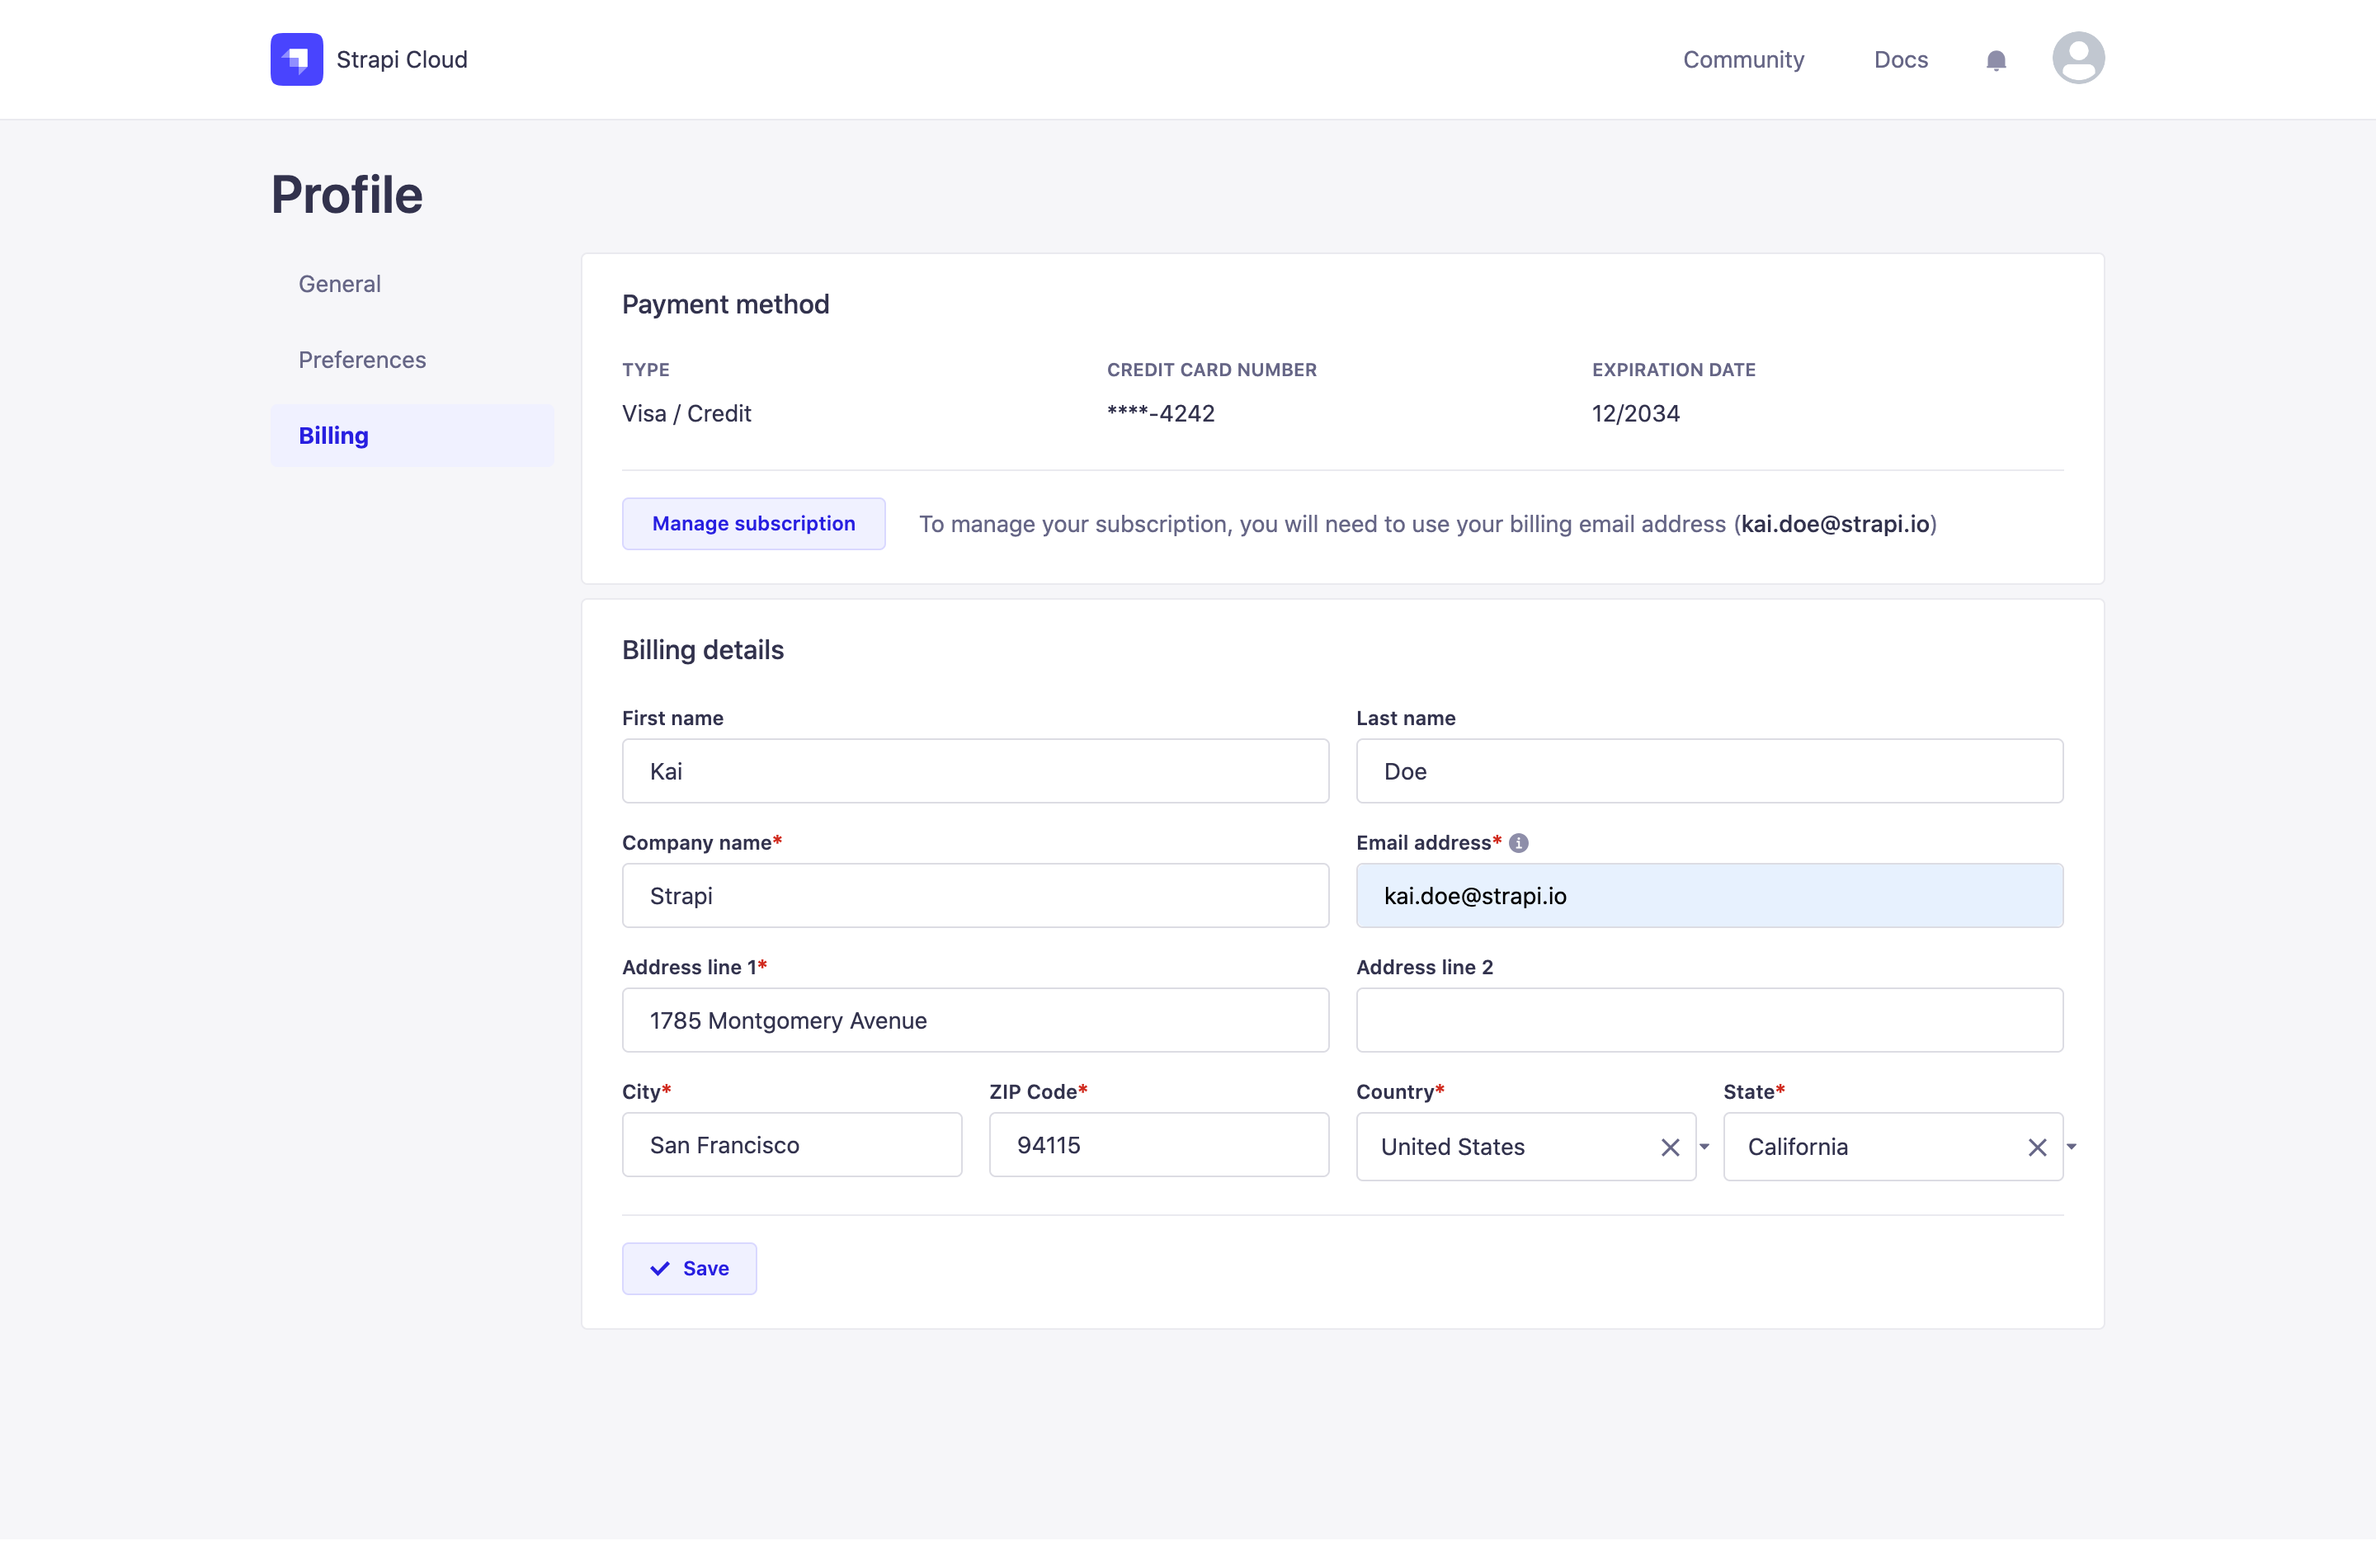
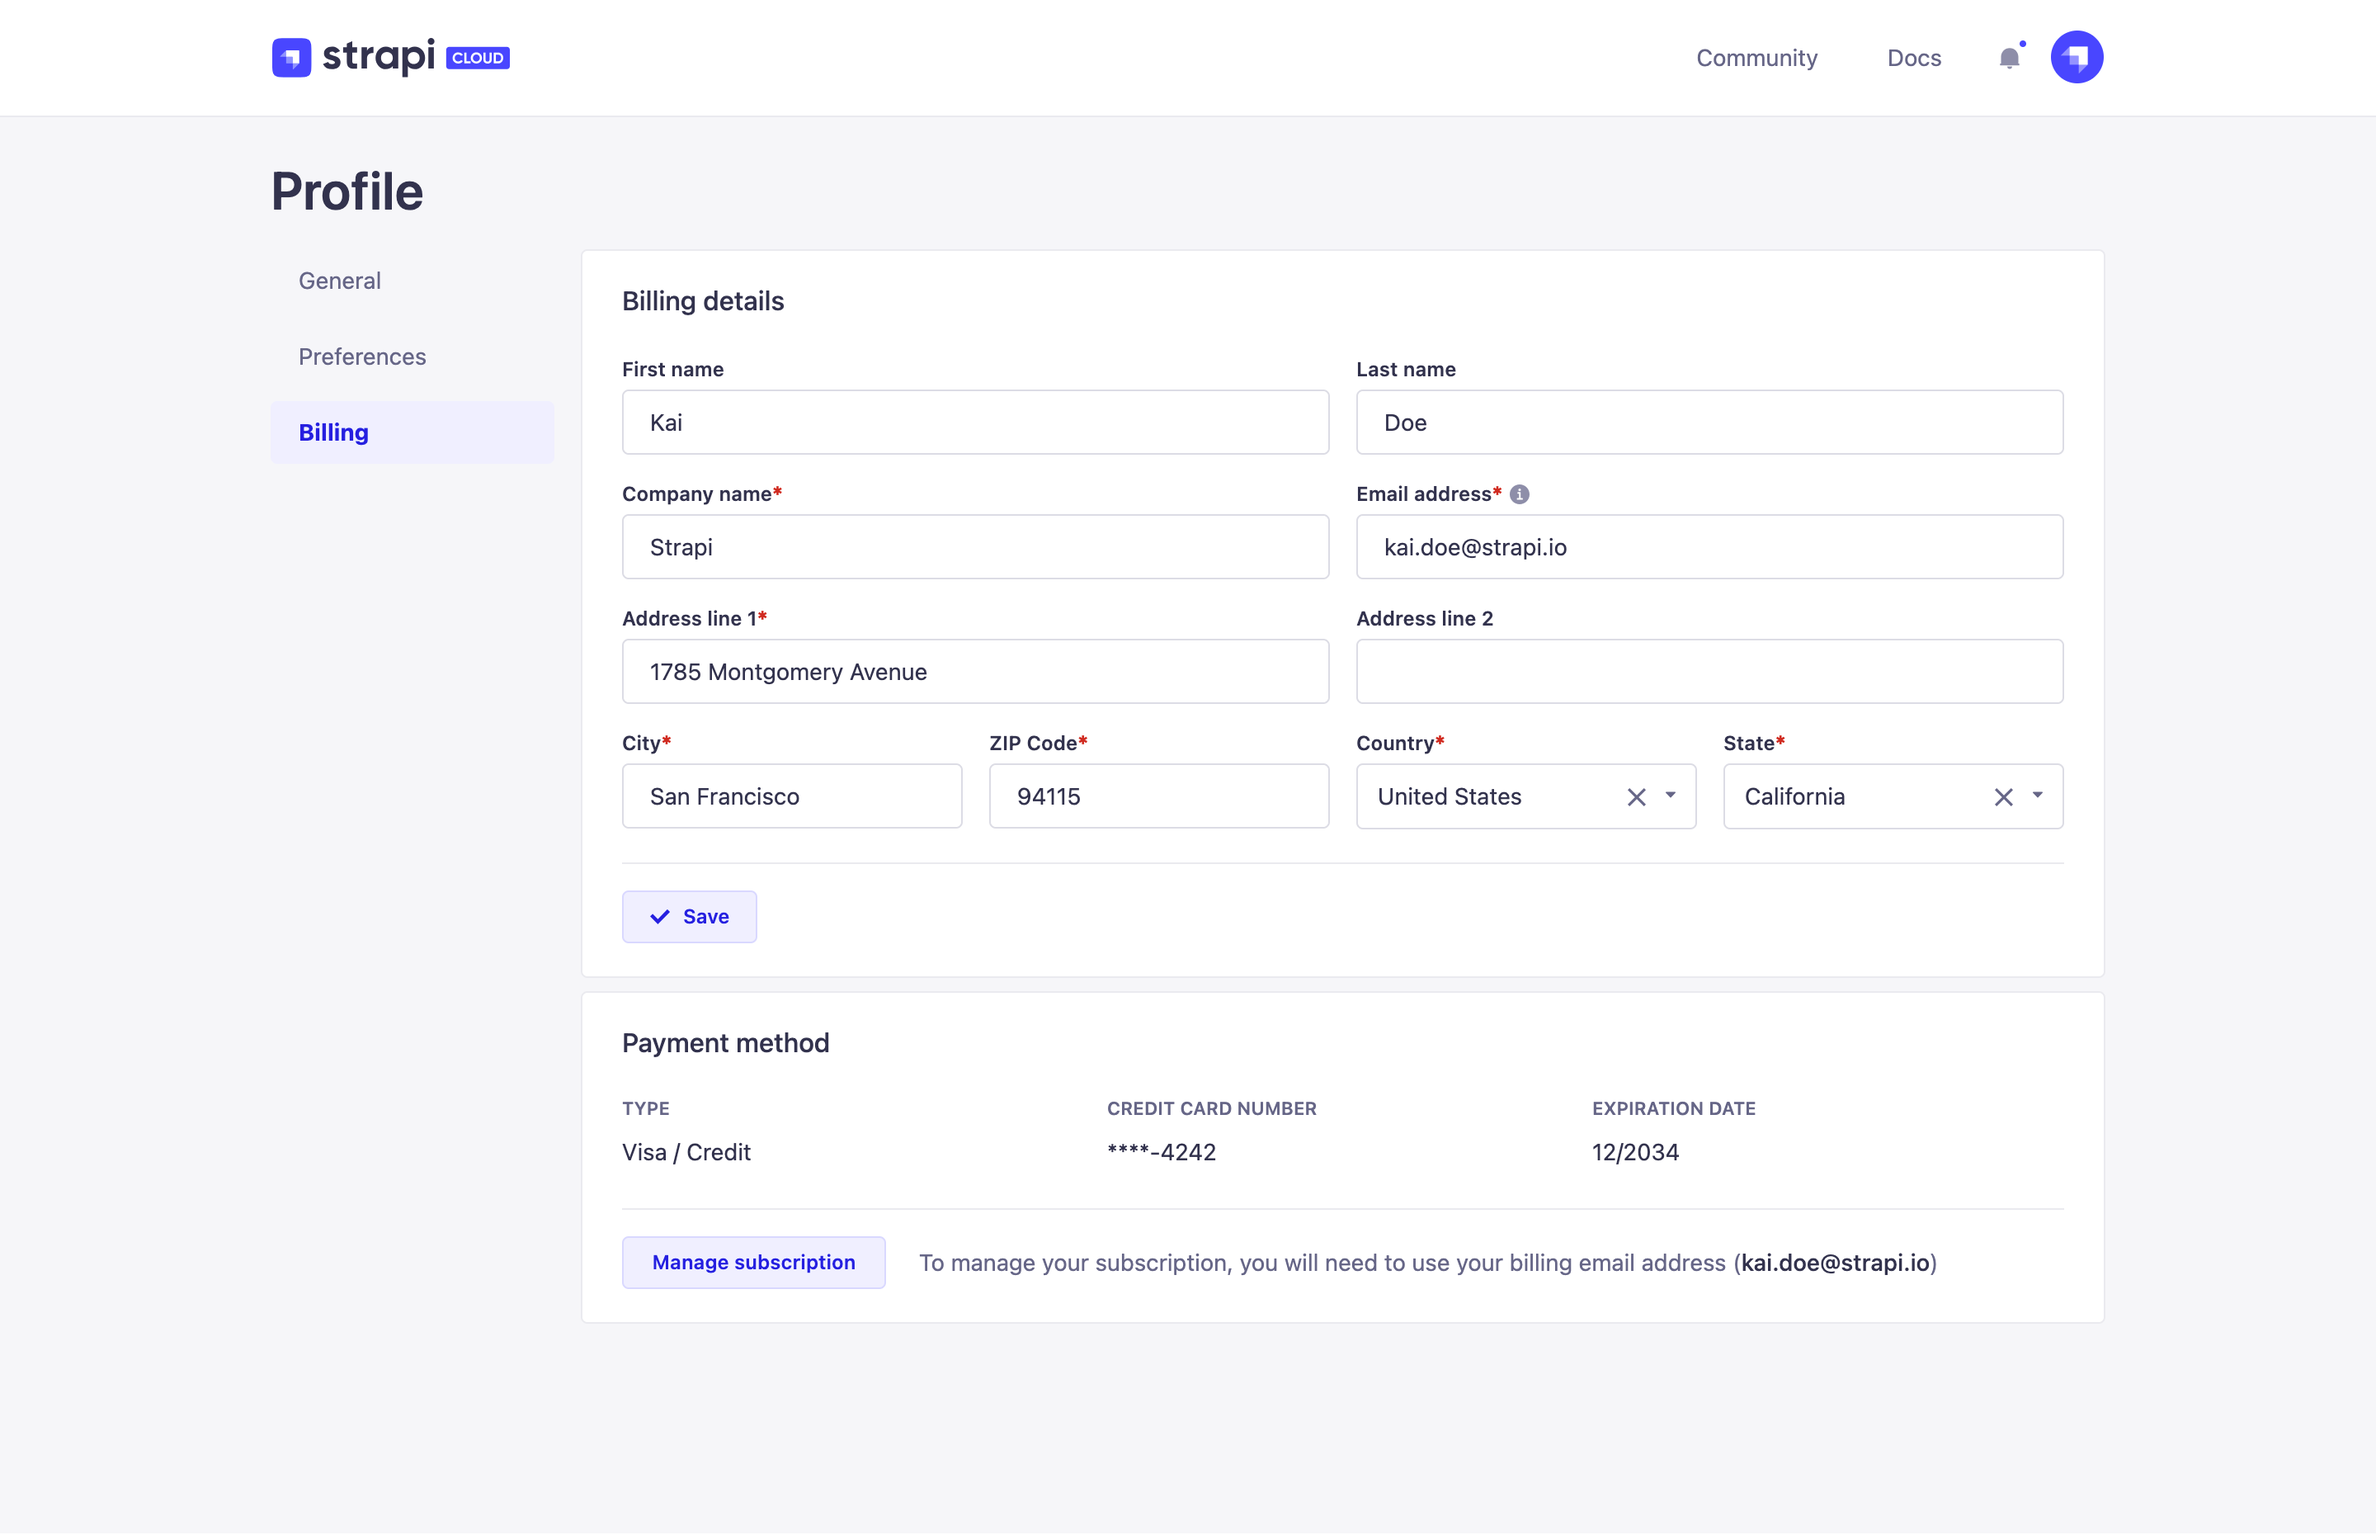
Strapi Cloud: mandatory billing details (#1981)
* Update account billing page

* Update screenshot

diff --git a/docusaurus/docs/cloud/account/account-billing.md b/docusaurus/docs/cloud/account/account-billing.md
@@ -7,9 +7,13 @@ canonicalUrl: https://docs.strapi.io/cloud/account/account-billing.html
 
 # Account billing details
 
-Through the *Profile* page, accessible by clicking on your profile picture on the top right hand corner of the interface then clicking on **Profile**, you can view and modify the billing details set for the account. This information will by default be reused for every new project created with your Strapi Cloud account.
+Through the *Profile* page, accessible by clicking on your profile picture on the top right hand corner of the interface then clicking on **Profile**, you can access the *Billing* tab.
 
-The *Billing* tab displays your billing information and enables you to update your payment method.
+The *Billing* tab displays and enables you to modify the billing details and payment method set for the account. This information will by default be reused for every new project created with your Strapi Cloud account.
+
+:::note
+The Payment method section can only be accessible once the mandatory fields of the Billing details section have been filled in.
+:::
 
 <ThemedImage
   alt="Billing tab of Profile page"
